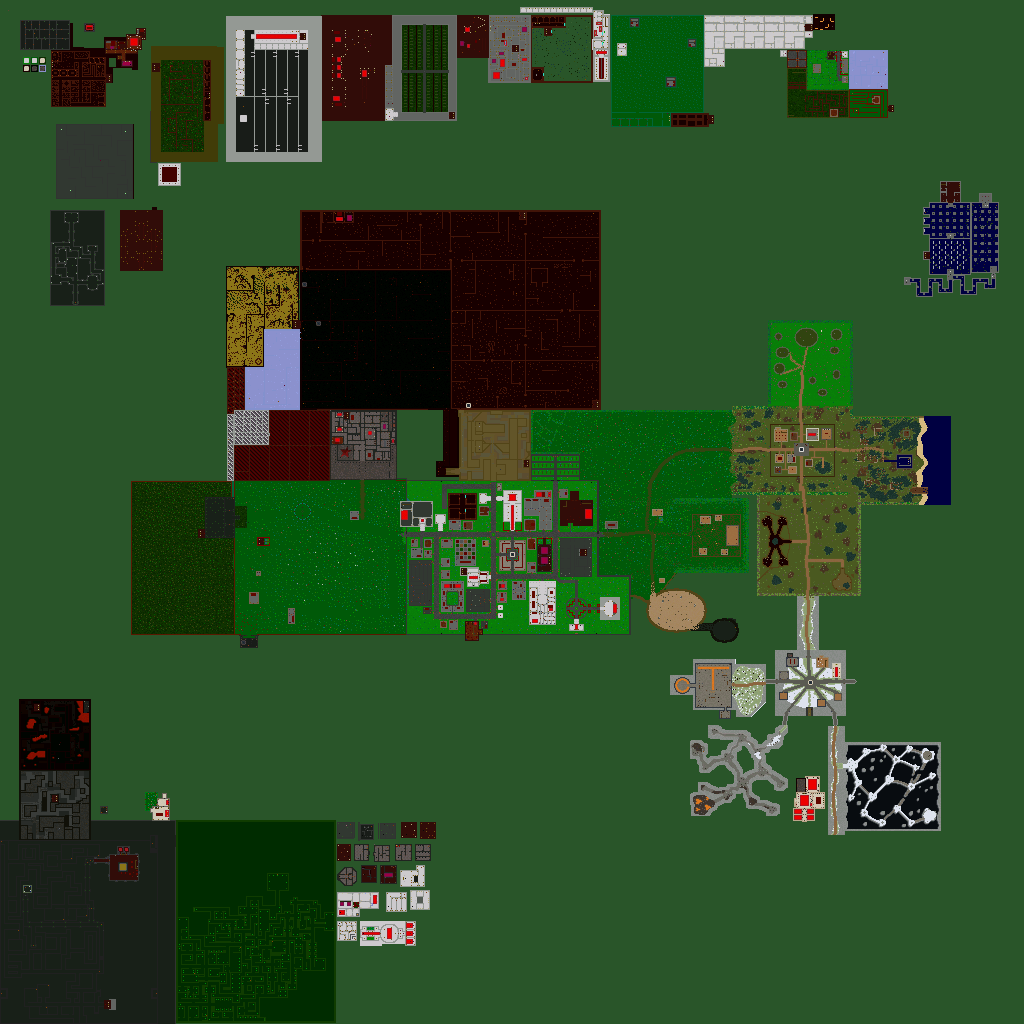
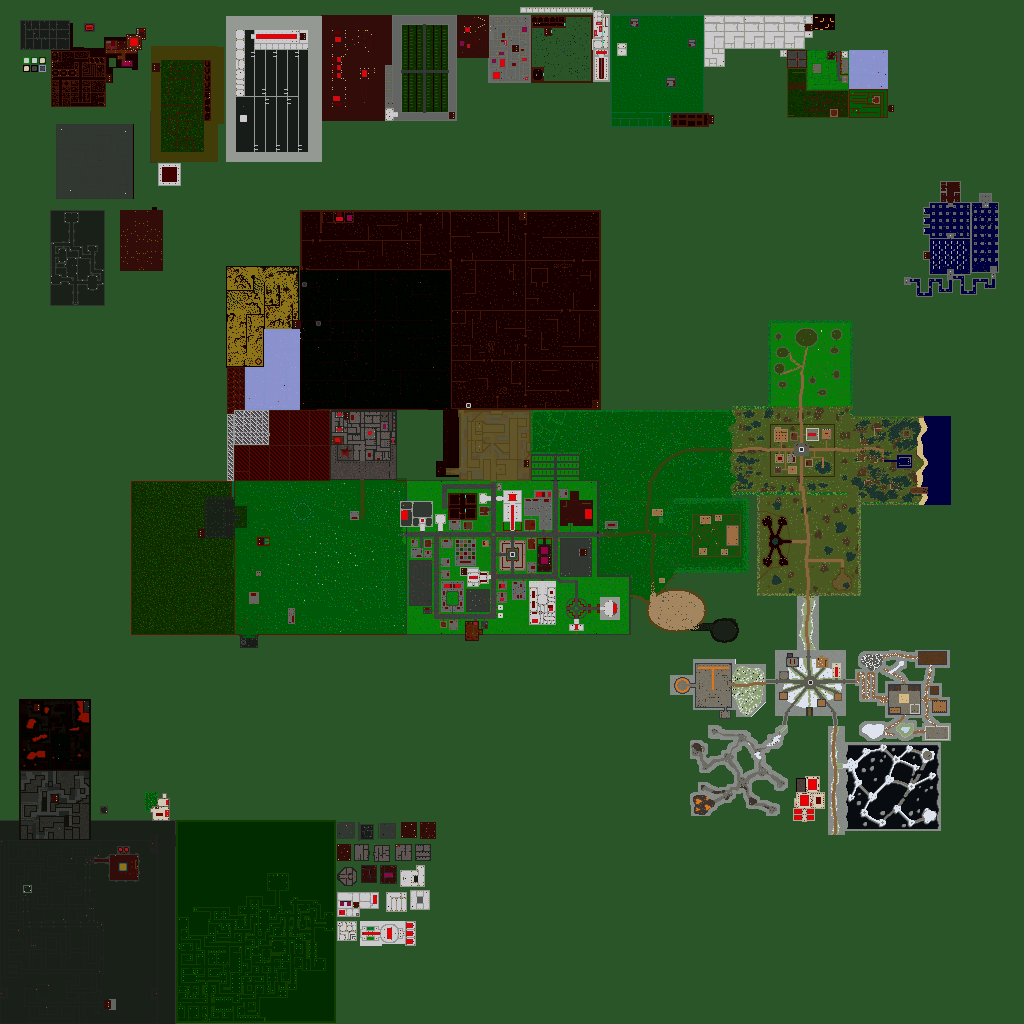
Monastery LIVE (band D complete): CHANGES, docs, maps, made.json; Ashra's Hollow zone flag 0; client-dist 8fa9b5b
Claude-Session: https://claude.ai/code/session_01AHK8Gjj1u582HPuMYjjGso

Changed region(s): [[0.8125, 0.625, 0.9375, 0.75]]

diff --git a/tools/release/publish_client_inc.py b/tools/release/publish_client_inc.py
@@ -24,10 +24,13 @@ print('new or changed:', len(changed))
 idx = tempfile.mktemp(prefix='cd-index-'); env = dict(os.environ, GIT_INDEX_FILE=idx)
 git('read-tree', 'client-dist', env=env)
 info = []
-for rel, p in changed:
-    data = open(p, 'rb').read(); h = hashlib.sha256(data).hexdigest()
-    blob = subprocess.run(['git', '-C', repo, 'hash-object', '-w', '--stdin'], input=data, capture_output=True, check=True).stdout.decode().strip()
-    info.append('100644 %s\t%s' % (blob, rel)); old[rel] = (h, len(data))
+for rel, p in changed:                                    # sha256 for the manifest
+    data = open(p, 'rb').read(); old[rel] = (hashlib.sha256(data).hexdigest(), len(data))
+# all the files stored in ONE git call (one call per file ran past the device shell's 3 minutes, Nov 19)
+blobs = subprocess.run(['git', '-C', repo, 'hash-object', '-w', '--stdin-paths'], input='\n'.join(os.path.abspath(p) for _, p in changed) + '\n',
+                       capture_output=True, check=True, text=True).stdout.split()
+assert len(blobs) == len(changed)
+for (rel, _), blob in zip(changed, blobs): info.append('100644 %s\t%s' % (blob, rel))
 lines = [l for l in man if l and not l.startswith(('file ', 'base ', 'version '))]
 lines.append('version ' + version)
 for rel in sorted(old, key=lambda r: r.lower()): lines.append('file %s %d %s' % (old[rel][0], old[rel][1], rel))

diff --git a/tools/world/ashen_fields/build_ashen.py b/tools/world/ashen_fields/build_ashen.py
@@ -171,7 +171,7 @@ for p in rim:
 A.run('vents by the lava')
 
 A.zone(X0, Y0, X1, Y1, 'Ashen Fields', flag=1)
-A.zone(int(HOLLOW_C[0] - HOLLOW_R - 1), int(HOLLOW_C[1] - HOLLOW_R - 1), int(HOLLOW_C[0] + HOLLOW_R + 1), int(HOLLOW_C[1] + HOLLOW_R + 1), "Ashra's Hollow", flag=1)
+A.zone(int(HOLLOW_C[0] - HOLLOW_R - 1), int(HOLLOW_C[1] - HOLLOW_R - 1), int(HOLLOW_C[0] + HOLLOW_R + 1), int(HOLLOW_C[1] + HOLLOW_R + 1), "Ashra's Hollow", flag=0)
 A.zone(int(CAVERN_C[0] - CAVERN_R - 1), int(CAVERN_C[1] - CAVERN_R - 1), min(X1, int(CAVERN_C[0] + CAVERN_R + 1)), int(CAVERN_C[1] + CAVERN_R + 1), 'Ember Cavern', flag=1)
 c = CH['smoking steps'][0]; A.zone(c[0] - 6, c[1] - 6, c[0] + 6, c[1] + 6, 'Smoking Steps', flag=1)
 json.dump({'vent_templates': VENT_T, 'rock_templates': ROCK_T, 'canyon': sorted([list(p) + [v[0], round(v[1], 3)] for p, v in canyon.items()]), 'lava': sorted(lava), 'used': sorted(used),

diff --git a/docs/QUEST_BUILD.md b/docs/QUEST_BUILD.md
@@ -74,14 +74,14 @@ past Elysium -> Last Bastion.** The Barrow Hills are a dead end off Fenwatch's n
 
 ## 4. Numbers in use (check again before making new ones)
 
-- Item templates up to **2082** (2064-2068 Golem Foundry; 2069-2077 Ashen Fields; 2078-2082 Gargoyle Spires) (2024-2032 Drowned Village; 2033-2050 wall decorations; 2051-2054 Barrow Hills;
-  2055-2063 Lizard Hatcheries). NPC templates up to **2405** (2361-2405 Gargoyle Spires; 2319-2360 Ashen Fields; 2206-2239 Barrow Hills; 2240-2276 Lizard Hatcheries incl. Cody's 3 knight copies; 2277-2292 Stonehold; 2293-2317 Golem Foundry; 2318 the Sea Hag). `itempnew` / `ctempnew` take the next free number by themselves.
+- Item templates up to **2086** (2064-2068 Golem Foundry; 2069-2077 Ashen Fields; 2078-2082 Gargoyle Spires; 2083-2086 Monastery) (2024-2032 Drowned Village; 2033-2050 wall decorations; 2051-2054 Barrow Hills;
+  2055-2063 Lizard Hatcheries). NPC templates up to **2445** (2406-2445 Monastery; 2361-2405 Gargoyle Spires; 2319-2360 Ashen Fields; 2206-2239 Barrow Hills; 2240-2276 Lizard Hatcheries incl. Cody's 3 knight copies; 2277-2292 Stonehold; 2293-2317 Golem Foundry; 2318 the Sea Hag). `itempnew` / `ctempnew` take the next free number by themselves.
 - Monster groups (NPC data 42/44): 30 bandits, 31 quarry golems, 32 deep grolms, 33 wolves, 34 Drowned Village, 35 Barrow Hills, 36 Lizard Hatcheries.
-  37 Golem Foundry, 38 Ashen Fields, 39 Gargoyle Spires. **Next: 40.** Undead in a group listed in `SLOW_UNDEAD_GROUP` (`data.h`: 34, 35) regenerate like Lab 11's (~4 hp/s, not ~12):
+  37 Golem Foundry, 38 Ashen Fields, 39 Gargoyle Spires, 40 Monastery. **Next: 41.** Undead in a group listed in `SLOW_UNDEAD_GROUP` (`data.h`: 34, 35) regenerate like Lab 11's (~4 hp/s, not ~12):
   add each new undead area's group there (Cody, Nov 17).
 - Sprites: monster recolours 41000+ (Quarry Golem), 42100+ (Deep Grolm), 50000+ Drowned Sailor, 50500+ Bog-man,
-  51000-51981 Sea Golem, 52000+ Barrow Wight, 53000+ the Broodmother, 54000+ Lizard Hatchling, 55000 Iron Golem, 56000 Forgemaster, 57000 Brass Colossus (96x96), 58000 Sea Hag, 59000 Ash Gargoyle, 60000 the Flame Lord (1.4x: 64x96 frames), 61000 Ashra, 62000 / 62500 Gargoyle Knight / Mage, 63000 Bellkeeper, 63500 Shrike (1.3x): **next free block 64000** (a recolour fills base+0..1023, so step by 1000 to be safe; 500 worked
-  for the Undead and Grolm). 3D creatures 43000-44447 (wolves). Item pictures 44500-44555: **next 44556**. Chasm ground 37400-37527. Bell and bell frame 38463-38466. World objects: lizard eggs 38300-38307. Ground: snowy grass 36100-36287, molten iron 36300-36349, ash set 37100-37337 (Ashen Fields; next free 37338; 36350-36399 free, 36400-36409 are the arches). Foundry / workshop objects 38400-38447, Ashen Fields objects 38448-38462, Spires bell 38463-38466 (next 38467).
+  51000-51981 Sea Golem, 52000+ Barrow Wight, 53000+ the Broodmother, 54000+ Lizard Hatchling, 55000 Iron Golem, 56000 Forgemaster, 57000 Brass Colossus (96x96), 58000 Sea Hag, 59000 Ash Gargoyle, 60000 the Flame Lord (1.4x: 64x96 frames), 61000 Ashra, 62000 / 62500 Gargoyle Knight / Mage, 63000 Bellkeeper, 63500 Shrike (1.3x), 64000 / 64500 / 65000 Fallen Monk / Mystic / Kesh, 45000 Abbot, 45500 Anselm: **next free blocks 46000-49999** (65000 is the last that fits below 65,536) (a recolour fills base+0..1023, so step by 1000 to be safe; 500 worked
+  for the Undead and Grolm). 3D creatures 43000-44447 (wolves). Item pictures 44500-44559: **next 44560**. Chasm ground 37400-37527. Bell and bell frame 38463-38466. World objects: lizard eggs 38300-38307. Ground: snowy grass 36100-36287, molten iron 36300-36349, ash set 37100-37337 (Ashen Fields; next free 37338; 36350-36399 free, 36400-36409 are the arches). Foundry / workshop objects 38400-38447, Ashen Fields objects 38448-38462, Spires bell 38463-38466, Monastery props 38467-38478, monk statues 38479-38494 (next 38495). Ice 37528-37531 (next ground 37532).
   Server item drivers: 77 = lizard egg in a nest (`use_lizard_egg`); next free 78.
   World: marsh grounds and edges 35650-35995, reeds 38200-38207. Waypoints: 1-6 used (`next 7` in waypoints.dat).
 - Fenwatch NPCs (`tools/world/fenwatch/made.json`): Joss 2142, Ilse 2143, Aldous 2144, Petra 2145, Rook 2146, Bounty
@@ -281,7 +281,7 @@ off its east side (about 765,843). Monster group 39 (not undead). Draft shown to
   ...: replaced by the v4 layout above), snow ridges and flagstone bridges, ~25 lone pillars in the gorge, a granite rim round the box. Zones:
   Bastion Road, Gargoyle Spires, Broken Causeway, Bell Spire, Shrike's Eyrie. Still to draw: the cracked bell, perch statues.
 
-## 9e. The Monastery of the Still Hand (Lieutenant Colonel) - **BUILT AND TESTED, NOT LIVE (Nov 19, 14:15)**
+## 9e. The Monastery of the Still Hand (Lieutenant Colonel) - **LIVE Nov 19, 18:05** (CHANGES.md; band D complete)
 
 **As built** (supersedes the plan below where they differ): `tools/world/monastery/build_monastery.py` (terrain v5: the
 zig-zag Pilgrims' Stair, 1-2 statues per leg; the Cloister; north route Training Yard -> Hall of the Silent Hand (far

diff --git a/CHANGES.md b/CHANGES.md
@@ -1397,6 +1397,32 @@ the Spider Queen, the Ghost King, Robin; the Eastern Woods (Hollis, Edda, Tobias
 chain); Fenwatch by rank (Joss, Ilse, Corwin, Aldous, Petra, Robin's second, Rook); Stonehold (Hagar, Brann); Syleia last.
 `tools/world/quest_fix/quest_order.py` (new quests: add them to its list).
 
+## Monastery of the Still Hand (Nov 19, live) - band D, Lieutenant Colonel (band D complete)
+
+A mountain monastery gone bad, east of Stonehold, spread over its whole box (Cody's Spires rule: the goals at opposite
+ends, loops, dead ends). **Pilgrims' Stair**: long switchbacks up from Stonehold's east gate road, a stone monk statue
+or two set into the rock along each leg, no monsters. **Brother Anselm** waits at its foot (Cody: closer to town).
+The **Cloister**: a raked-stone garden ringed by four statues, four monks' cells, the refectory, the chapel; doors on all
+four sides. North: the **Training Yard** (practice dummies) and, in the far north-east, the **Hall of the Silent Hand**
+(Master Kesh). South: the **Burial Terrace**, the gardens and the frozen **Still Pond** (walk on the ice) and, in the far
+south-east, the **Abbot's Sanctum** (the Fallen Abbot). An outer terrace joins both ends the other way round; dead ends:
+the **Library**, the collapsed cells, the Hermit's Ledge. About 195 steps to each goal.
+- **Monsters** (group 40), Lieutenant Colonels, bare-handed: 24 **Fallen Monks** (saffron) and 12 **Fallen Mystics**
+  (grey casters); **Master Kesh** (Colonel, black and red) with four monks in his hall; **the Fallen Abbot** (pale and
+  gold) with three mystics. Looks: no whole-figure recolours (Cody) - the new `tools/sprites/unarmed_robes.py` takes the
+  Mercenary's sword out of every frame (its steel is cool grey, the figure warm), recolours only the clothes, keeps the
+  skin, cleans the edges: 64000 / 64500 / 65000 / 45000, Anselm 45500 (plain undyed wool).
+- **Quests, Brother Anselm**, Lieutenant Colonel+, no gold: Abbot's Prayer Beads -> **Monk's Wrap** (+5 Agility, +40
+  endurance) 96,000 exp; Silent Hand Sash -> **Amulet of the Still Mind** (+5 Willpower, +10 Meditate) 96,000 exp; his
+  greeting points to whichever is left. Item pictures 44556-44559.
+- **Statues** (`tools/sprites/statues.py`): any character's standing frames turned to stone (granite, marble or
+  sandstone; weapon kept or taken out) on a square plinth seated on the tile, all 8 directions: 38479-38494 monk statues.
+  Cody wants a set for every class later.
+- Pieces from Cody's 3D props (`world_monastery.py`): practice dummy, bookcase, book stand, candlestick, bench, pot
+  (38467-38478); ice 37528-37531.
+- Also: "Ashra's Hollow" no longer reads "in the Ashra's Hollow" (zone flag 0). Client files: client-dist 8fa9b5b
+  (publish_client_inc.py now stores all new files in one git call: the per-file calls ran out of time).
+
 ## Gargoyle Spires (Nov 19, live) - band D, Brigadier General
 
 A summit of rock spires over a misty chasm, east of the new Bastion Road (Cody: "like you're walking over a chasm"; "more

diff --git a/docs/world_zones.md b/docs/world_zones.md
@@ -226,7 +226,7 @@ Shown by `/who`, by NPCs when asked where you are, and in server logs. A spot in
 | 216 | Reeves Hall | 428,821 | 439,831 | "in the Reeves Hall" |
 | 217 | Courtyard | 665,732 | 714,764 | "in the Courtyard" |
 | 218 | Ashen Fields | 725,690 | 815,787 | "in the Ashen Fields" |
-| 219 | Ashra's Hollow | 741,689 | 756,704 | "in the Ashra's Hollow" |
+| 219 | Ashra's Hollow | 741,689 | 756,704 | "in Ashra's Hollow" |
 | 220 | Ember Cavern | 793,691 | 815,713 | "in the Ember Cavern" |
 | 221 | Smoking Steps | 788,720 | 800,732 | "in the Smoking Steps" |
 | 222 | Bastion Road | 726,828 | 834,844 | "in the Bastion Road" |
@@ -234,3 +234,12 @@ Shown by `/who`, by NPCs when asked where you are, and in server logs. A spot in
 | 224 | Broken Causeway | 771,880 | 793,937 | "in the Broken Causeway" |
 | 225 | Bell Spire | 748,920 | 762,934 | "in the Bell Spire" |
 | 226 | Shrike's Eyrie | 807,921 | 823,937 | "in Shrike's Eyrie" |
+| 227 | Monastery of the Still Hand | 650,855 | 740,950 | "in the Monastery of the Still Hand" |
+| 228 | Pilgrims' Stair | 676,855 | 703,887 | "in Pilgrims' Stair" |
+| 229 | Cloister | 684,888 | 714,920 | "in the Cloister" |
+| 230 | Training Yard | 652,860 | 670,884 | "in the Training Yard" |
+| 231 | Hall of the Silent Hand | 651,918 | 664,946 | "in the Hall of the Silent Hand" |
+| 232 | Burial Terrace | 722,861 | 738,885 | "in the Burial Terrace" |
+| 233 | Still Pond | 721,895 | 737,915 | "in the Still Pond" |
+| 234 | Abbot's Sanctum | 726,925 | 739,948 | "in the Abbot's Sanctum" |
+| 235 | Library | 700,932 | 712,946 | "in the Library" |

diff --git a/docs/TODO.md b/docs/TODO.md
@@ -27,7 +27,7 @@ world, quests, the editor, the client and Discord. Merged Nov 10 from the old TO
    the Last Bastion later). Needs server code: the shrine's use driver sets the character's recall point (the temple's
    spot) and says so; Recall reads it instead of Aston. To work out: which object is each town's shrine, where the recall
    spot is, whether to charge for it, and what new characters start with (Aston).
-0. ★ **Quest plan, area by area**: bands A-B done, Fenwatch + Drowned Village (Nov 16) + Barrow Hills + Lizard Hatcheries (Nov 17) live: band C done; Stonehold + its people, the Golem Foundry (Nov 17), the Ashen Fields (Nov 18) and the Gargoyle Spires with Bastion Road (Nov 19) live; next the Monastery (last of band D): **follow `docs/QUEST_BUILD.md`** - [Quests](#6-quests)
+0. ★ **Quest plan, area by area**: bands A-B done, Fenwatch + Drowned Village (Nov 16) + Barrow Hills + Lizard Hatcheries (Nov 17) live: band C done; Stonehold + its people, the Golem Foundry (Nov 17), the Ashen Fields (Nov 18) and the Gargoyle Spires with Bastion Road and the Monastery (Nov 19) live - band D done; next band E (the Last Bastion): **follow `docs/QUEST_BUILD.md`** - [Quests](#6-quests)
 1. ★ **Soulstone levels too low** (MAJOR) - [Fixes](#1-fixes-and-balance)
 2. ★ **Discord**: built Nov 14 (CHANGES.md "Discord"); waiting on Cody's webhooks / bot (HOSTING.md "Discord links")
 3. ★ **Walking speed, speed modes and attack speed** (look at it together first) - [Systems](#2-gameplay-systems)

diff --git a/docs/HANDOFF.md b/docs/HANDOFF.md
@@ -271,7 +271,11 @@ Open: molten iron / crucibles / furnaces give no light (only the fire bowls do) 
 **REMIND CODY (asked Nov 19, 12:37): place the Gargoyle Spires' exploration pole when he is home** (Brigadier General: 60,000
 by the pole table; QUEST_BUILD 9c). Say it at the start of every reply until he says it's done.
 
-**Nov 19, 12:40: the Monastery planned (QUEST_BUILD 9e), waiting for Cody's OK.**
+**Nov 19, 18:05: the Monastery of the Still Hand is LIVE - band D is complete** (CHANGES.md; client-dist 8fa9b5b, Cody pushes).
+Next band E (Last Bastion and its areas, QUEST_BUILD) - and the TODO's new first item (recall to each town's temple).
+Lessons: (1) `device_commit_files` does not reliably replace a file that already exists on Cody's PC - check its md5
+there before running; edit existing files in place with the device shell. (2) Cody wants no whole-figure recolours of
+humans: `unarmed_robes.py` (weapon out, clothes only) and `statues.py` are the tools.
 
 **Nov 19, 07:20: the Gargoyle Spires are LIVE** (CHANGES.md "Gargoyle Spires"; client-dist 9c67f2c, Cody pushes). Band D: only
 the Monastery is left (new monk sprites). Lessons: (1) the live server was one build behind (Nov 18's `if done` in npctalk.c
